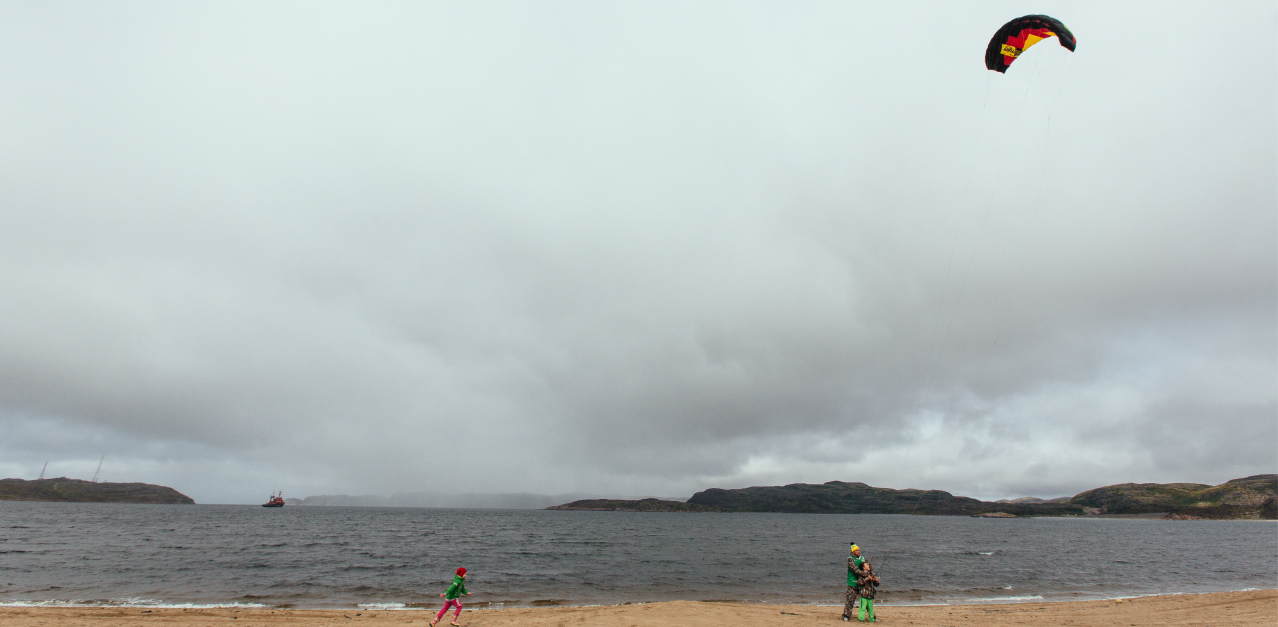
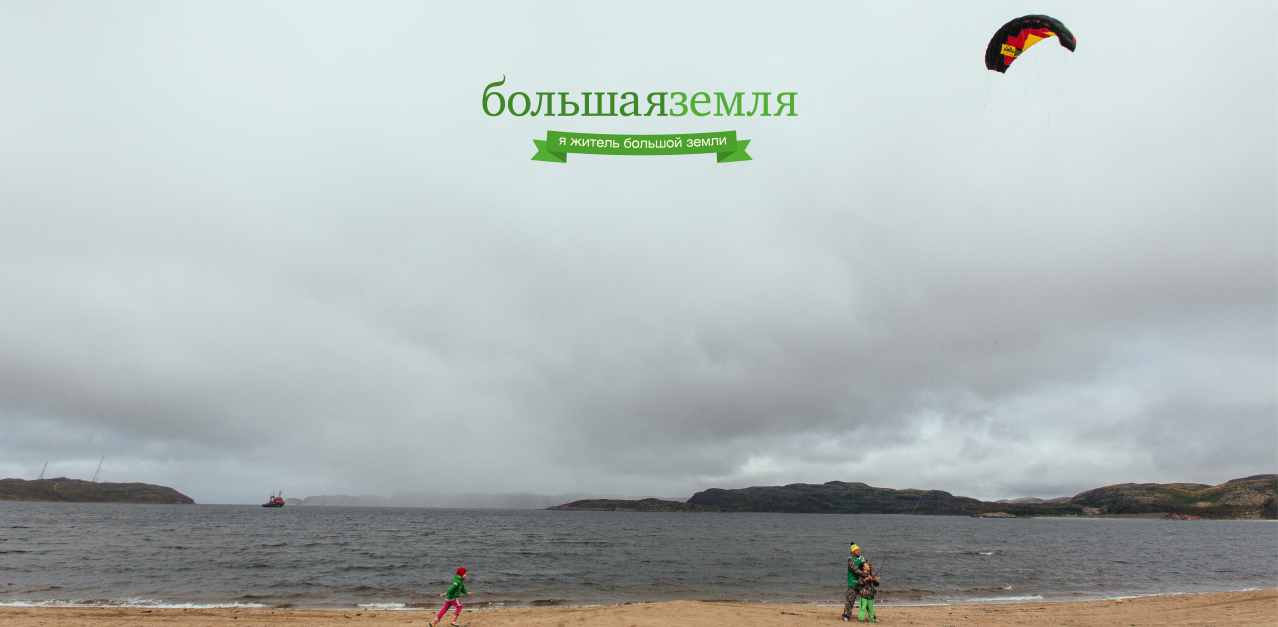
block1 and block2

Changed region(s): [[0.3662, 0.1212, 0.6408, 0.2727]]

diff --git a/teriberka/css/style.css b/teriberka/css/style.css
@@ -10,7 +10,12 @@ html, body {height: 100%;margin: 0;padding: 0;}
 .navbar-inverse .navbar-nav> li > a:hover, .navbar-inverse .navbar-nav> li > a:focus {color: #2b8383;background-color: #ffffff;}
 
 /*   -----   BLOCK 1 --------  */
-.block1{background:url("../img/main_page.jpg");background-size: 100%; height: 600px}
+.block1{min-width: 100%}
+.block1 img{width: 100%}
+
+/*   -----   BLOCK 1 --------  */
+.block2{min-width: 100%}
+.block2 img{width: 100%}
 
 
 /* RESPONSIVE CSS

diff --git a/teriberka/block2.php b/teriberka/block2.php
@@ -1,0 +1,26 @@
+<div class="block2" id="block2">
+    <img src="img/main_page_2.jpg" alt="Триберка_2">
+    <div class="text" style="margin-top: -30%;width: 80%;margin-left: 10%" >
+        <p>
+            “Большая Земля” – это сообщество активных и успешных жителей России и проект развития провинциальных
+            территорий
+            и сельской местности. Цель проекта – доказать, что жизнь кипит не только в крупных городах и “экономических
+            центрах”. Отдаленные регионы, небольшие городки и поселки – это будущее нашей страны и именно в них –
+            главный
+            потенциал нашего общего развития!
+        </p>
+        <p>
+            Платформа и мультимедийное выражение «Большой Земли» задумана как собственная социальная сеть с мобильными
+            приложениями и другими средствами создания и налаживания взаимовыгодных связей для деятельных людей. На этой
+            платформе каждый житель «Большой земли» получает возможность заявить о себе на всю страну, найти
+            единомышленников, деловых партнеров, получить новые рынки сбыта, в общем сделать лучше собственную жизнь и
+            жизнь
+            в своем регионе.
+        </p>
+        <p>
+            «Большая Земля» дает возможность посмотреть новым взглядом на свою страну и увидеть, что вокруг живет
+            множество
+            людей, которые делают мир лучше прямо сейчас!
+        </p>
+    </div>
+</div>

diff --git a/teriberka/navigator.php b/teriberka/navigator.php
@@ -16,7 +16,7 @@
 
                 <div class="navbar-collapse collapse">
                     <ul class="nav navbar-nav">
-                        <li><a href="#">о проекте</a></li>
+                        <li><a href="#block2">о проекте</a></li>
                         <li><a href="#">фестиваль</a></li>
                         <li><a href="#">транспорт и проживание</a></li>
                         <li><a href="#">принять участие</a></li>

diff --git a/teriberka/block1.php b/teriberka/block1.php
@@ -1,4 +1,3 @@
-<div class="block1">
-
-    
+<div class="block1" id="block1">
+    <img src="img/main_page.jpg" alt="Териберка">
 </div>

diff --git a/teriberka/main.php b/teriberka/main.php
@@ -2,4 +2,5 @@
     require('header.php');
     require('navigator.php');
     require('block1.php');
+    require('block2.php');
 ?>
